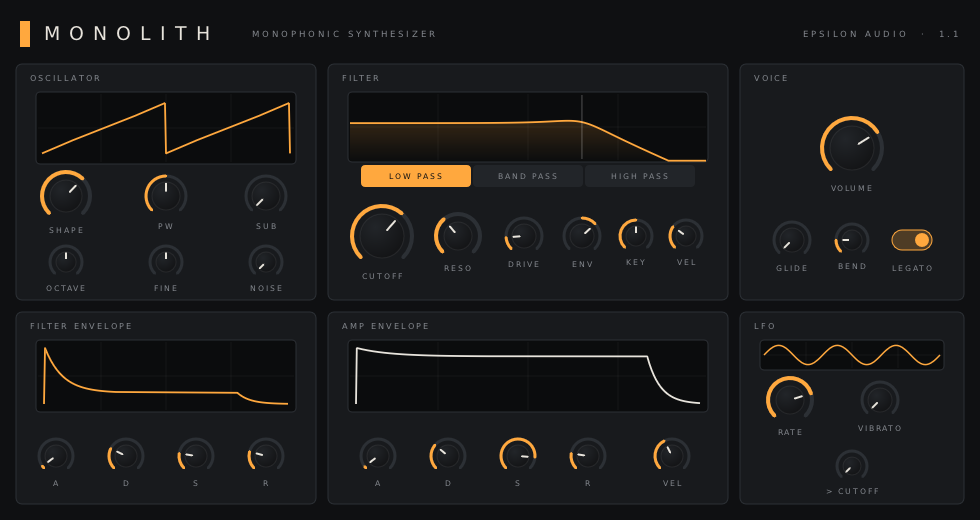
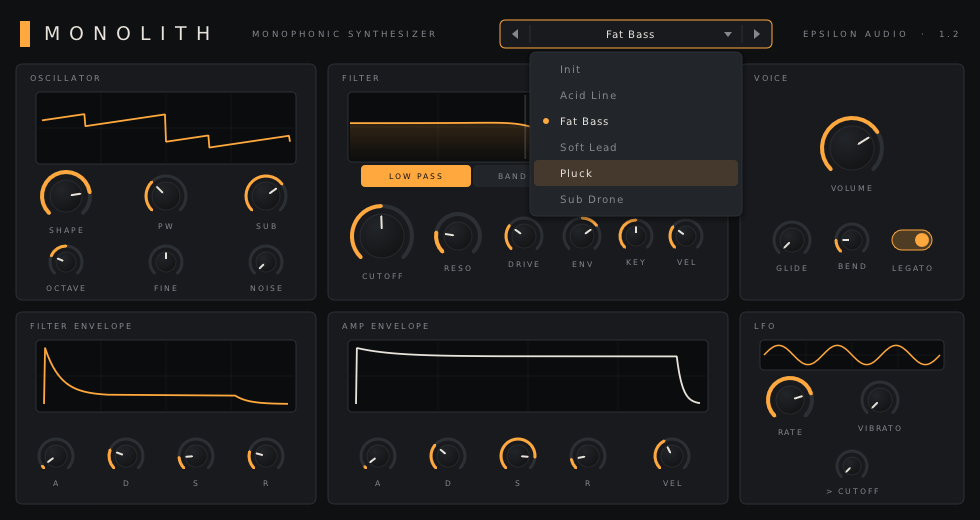
Monolith 1.2: preset selector in the plugin header
Adds prev/next arrows, a dropdown list, mouse-wheel stepping and a
modified marker. Presets move to a shared Presets.hpp so the UI and the
host program list use the same data; selecting a preset sends ordinary
parameter changes, so it works in CLAP hosts and is undoable.

Claude-Session: https://claude.ai/code/session_01SqN8qLbib611dsRsgrzuFU

diff --git a/plugins/Monolith/MonolithUI.cpp b/plugins/Monolith/MonolithUI.cpp
@@ -1,6 +1,7 @@
 // Monolith — custom vector UI (DPF/NanoVG). Original design. License: ISC.
 #include "DistrhoUI.hpp"
 #include "ParamDefs.hpp"
+#include "Presets.hpp"
 #include <cmath>
 #include <cstdio>
 #include <vector>
@@ -76,6 +77,10 @@ static const Ctl kCtls[] = {
     { Knob, kLfoCutoff, 852, 466, 15, "> CUTOFF" },
 };
 static constexpr int kNumCtls = sizeof(kCtls) / sizeof(kCtls[0]);
+
+// header preset selector:  [◀][ name ▾ ][▶]
+static constexpr float PS_X = 500.f, PS_Y = 20.f, PS_W = 272.f, PS_H = 28.f, PS_ARROW = 30.f;
+static constexpr float PS_ROW = 26.f;
 
 static bool isTime(uint32_t p) {
     return p == kGlide || (p >= kFltAttack && p <= kAmpRelease && p != kFltSustain && p != kAmpSustain);
@@ -156,7 +161,7 @@ protected:
         textAlign(ALIGN_LEFT | ALIGN_MIDDLE); text(44, 34, "MONOLITH", nullptr);
         fontSize(10); textLetterSpacing(2.5f); fillColor(C_DIM);
         text(252, 35, "MONOPHONIC SYNTHESIZER", nullptr);
-        textAlign(ALIGN_RIGHT | ALIGN_MIDDLE); text(W - 22, 35, "EPSILON AUDIO  ·  1.1", nullptr);
+        textAlign(ALIGN_RIGHT | ALIGN_MIDDLE); text(W - 22, 35, "EPSILON AUDIO  ·  1.2", nullptr);
         // accent bar: a single slab
         beginPath(); rect(20, 21, 10, 26); fillColor(C_ACCENT); fill();
 
@@ -169,6 +174,8 @@ protected:
         drawLfo(760, 340, 184, 30);
 
         for (int i = 0; i < kNumCtls; ++i) drawCtl(kCtls[i], i == active || i == hover);
+        drawPresetBar();
+        if (menuOpen) drawPresetMenu();
         restore();
     }
 
@@ -339,6 +346,103 @@ protected:
         }
     }
 
+    // ---- presets ------------------------------------------------------------
+    bool matches(uint32_t idx) const {
+        const float* v = presets()[idx].v;
+        for (uint32_t i = 0; i < kParamCount; ++i) {
+            const float tol = 1e-4f * std::max(1.f, std::fabs(v[i]));
+            if (std::fabs(val[i] - v[i]) > tol) return false;
+        }
+        return true;
+    }
+    int exactMatch() const {
+        for (uint32_t i = 0; i < kNumPresets; ++i) if (matches(i)) return (int)i;
+        return -1;
+    }
+    void applyPreset(int idx) {
+        idx = (idx % (int)kNumPresets + (int)kNumPresets) % (int)kNumPresets;
+        const float* v = presets()[idx].v;
+        for (uint32_t i = 0; i < kParamCount; ++i) {
+            if (val[i] == v[i]) continue;
+            editParameter(i, true); setValue(i, v[i]); editParameter(i, false);
+        }
+        curPreset = idx; repaint();
+    }
+    void programLoaded(uint32_t index) override { curPreset = (int)index; repaint(); }
+
+    void drawPresetBar() {
+        const float x = PS_X, y = PS_Y, w = PS_W, h = PS_H, a = PS_ARROW;
+        // frame
+        beginPath(); roundedRect(x, y, w, h, 5); fillColor(C_PANEL); fill();
+        strokeColor(menuOpen ? C_ACCENT : C_LINE); strokeWidth(1); stroke();
+        // dividers
+        beginPath(); moveTo(x + a, y + 5); lineTo(x + a, y + h - 5);
+        moveTo(x + w - a, y + 5); lineTo(x + w - a, y + h - 5);
+        strokeColor(C_LINE); stroke();
+        // arrows
+        for (int side = 0; side < 2; ++side) {
+            const bool hot = presetHover == (side == 0 ? 0 : 2);
+            const float cx = side == 0 ? x + a / 2 : x + w - a / 2, cy = y + h / 2, d = side == 0 ? -1.f : 1.f;
+            beginPath(); moveTo(cx - 3 * d, cy - 5); lineTo(cx + 3 * d, cy); lineTo(cx - 3 * d, cy + 5); closePath();
+            fillColor(hot ? C_ACCENT : C_DIM); fill();
+        }
+        // name
+        char buf[48];
+        int shown = curPreset;
+        bool modified = false;
+        if (shown < 0 || !matches((uint32_t)shown)) {
+            const int m = exactMatch();
+            if (m >= 0) { shown = m; }
+            else modified = true;
+        }
+        if (shown < 0) snprintf(buf, sizeof buf, "Custom");
+        else snprintf(buf, sizeof buf, modified ? "%s *" : "%s", presets()[shown].name);
+        fontSize(12); textLetterSpacing(1.2f); textAlign(ALIGN_CENTER | ALIGN_MIDDLE);
+        fillColor(presetHover == 1 || menuOpen ? C_TEXT : Color(0xd0, 0xcc, 0xc4));
+        text(x + w / 2 - 6, y + h / 2 + 0.5f, buf, nullptr);
+        // caret
+        const float cx = x + w - a - 14, cy = y + h / 2;
+        beginPath(); moveTo(cx - 4, cy - 2); lineTo(cx + 4, cy - 2); lineTo(cx, cy + 3); closePath();
+        fillColor(C_DIM); fill();
+    }
+
+    void drawPresetMenu() {
+        const float x = PS_X + PS_ARROW, w = PS_W - 2 * PS_ARROW, y = PS_Y + PS_H + 4;
+        const float h = PS_ROW * kNumPresets + 8;
+        // shadow + body
+        beginPath(); rect(x - 10, y - 4, w + 20, h + 18);
+        fillPaint(boxGradient(x, y + 2, w, h, 6, 12, Color(0, 0, 0, 0.6f), Color(0, 0, 0, 0.f))); fill();
+        beginPath(); roundedRect(x, y, w, h, 6); fillColor(C_PANEL_HI); fill();
+        strokeColor(C_LINE); strokeWidth(1); stroke();
+        const int cur = curPreset >= 0 ? curPreset : exactMatch();
+        for (uint32_t i = 0; i < kNumPresets; ++i) {
+            const float ry = y + 4 + PS_ROW * i;
+            if ((int)i == menuHover) {
+                beginPath(); roundedRect(x + 4, ry, w - 8, PS_ROW, 4); fillColor(C_ACCENT_A(40)); fill();
+            }
+            if ((int)i == cur) {
+                beginPath(); circle(x + 16, ry + PS_ROW / 2, 3); fillColor(C_ACCENT); fill();
+            }
+            fontSize(12); textLetterSpacing(1.f); textAlign(ALIGN_LEFT | ALIGN_MIDDLE);
+            fillColor((int)i == menuHover || (int)i == cur ? C_TEXT : C_DIM);
+            text(x + 30, ry + PS_ROW / 2 + 0.5f, presets()[i].name, nullptr);
+        }
+    }
+
+    // -1 none, 0 prev arrow, 1 name, 2 next arrow
+    int presetBarHit(float x, float y) const {
+        if (y < PS_Y || y > PS_Y + PS_H || x < PS_X || x > PS_X + PS_W) return -1;
+        if (x < PS_X + PS_ARROW) return 0;
+        if (x > PS_X + PS_W - PS_ARROW) return 2;
+        return 1;
+    }
+    int menuHit(float x, float y) const {
+        const float mx = PS_X + PS_ARROW, mw = PS_W - 2 * PS_ARROW, my = PS_Y + PS_H + 8;
+        if (x < mx || x > mx + mw || y < my || y >= my + PS_ROW * kNumPresets) return -1;
+        return (int)((y - my) / PS_ROW);
+    }
+    int stepBase() const { return curPreset >= 0 ? curPreset : std::max(0, exactMatch()); }
+
     // ---- interaction ------------------------------------------------------
     int hit(float x, float y, int* seg = nullptr) const {
         for (int i = 0; i < kNumCtls; ++i) {
@@ -358,6 +462,19 @@ protected:
     bool onMouse(const MouseEvent& ev) override {
         const float x = ev.pos.getX() / uiScale, y = ev.pos.getY() / uiScale;
         if (ev.button != 1) return false;
+        if (ev.press && menuOpen) {
+            const int m = menuHit(x, y);
+            menuOpen = false; menuHover = -1;
+            if (m >= 0) applyPreset(m);
+            repaint();
+            return true;               // a click anywhere closes the menu
+        }
+        if (ev.press) {
+            const int pb = presetBarHit(x, y);
+            if (pb == 0) { applyPreset(stepBase() - 1); return true; }
+            if (pb == 2) { applyPreset(stepBase() + 1); return true; }
+            if (pb == 1) { menuOpen = true; menuHover = -1; repaint(); return true; }
+        }
         if (ev.press) {
             int seg = 0; const int i = hit(x, y, &seg);
             if (i < 0) return false;
@@ -389,13 +506,23 @@ protected:
             setValue(c.param, fromNorm(c.param, dragNorm));
             return true;
         }
-        const int h = hit(x, y);
+        if (menuOpen) {
+            const int m = menuHit(x, y);
+            if (m != menuHover) { menuHover = m; repaint(); }
+            return true;
+        }
+        const int pb = presetBarHit(x, y);
+        if (pb != presetHover) { presetHover = pb; repaint(); }
+        const int h = pb >= 0 ? -1 : hit(x, y);
         if (h != hover) { hover = h; repaint(); }
         return false;
     }
 
     bool onScroll(const ScrollEvent& ev) override {
-        const int i = hit(ev.pos.getX() / uiScale, ev.pos.getY() / uiScale);
+        const float sx = ev.pos.getX() / uiScale, sy = ev.pos.getY() / uiScale;
+        if (menuOpen) return true;
+        if (presetBarHit(sx, sy) >= 0) { applyPreset(stepBase() + (ev.delta.getY() > 0 ? -1 : 1)); return true; }
+        const int i = hit(sx, sy);
         if (i < 0 || kCtls[i].type != Knob) return false;
         const uint32_t p = kCtls[i].param;
         float step = (ev.mod & kModifierShift) ? 0.004f : 0.025f;
@@ -410,6 +537,8 @@ private:
     float val[kParamCount], defv[kParamCount];
     float uiScale = 1.f;
     int active = -1, hover = -1, lastClick = -1;
+    int curPreset = 0, presetHover = -1, menuHover = -1;
+    bool menuOpen = false;
     uint lastClickTime = 0;
     float dragY = 0, dragNorm = 0;
 

diff --git a/plugins/Monolith/MonolithPlugin.cpp b/plugins/Monolith/MonolithPlugin.cpp
@@ -1,53 +1,15 @@
 // Monolith — DPF plugin wrapper. License: ISC.
 #include "DistrhoPlugin.hpp"
 #include "ParamDefs.hpp"
+#include "Presets.hpp"
 
 START_NAMESPACE_DISTRHO
 
 using namespace mono;
 
-// Factory presets: {paramIndex, value} overrides on top of defaults.
-struct Preset { const char* name; float v[kParamCount]; };
-static Preset kPresets[] = {
-    {"Init",        {}},
-    {"Acid Line",   {}},
-    {"Fat Bass",    {}},
-    {"Soft Lead",   {}},
-    {"Pluck",       {}},
-    {"Sub Drone",   {}},
-};
-static constexpr uint32_t kNumPresets = sizeof(kPresets) / sizeof(kPresets[0]);
-
-static void buildPresets() {
-    static bool done = false; if (done) return; done = true;
-    Engine e;
-    for (auto& pr : kPresets) std::copy(e.p, e.p + kParamCount, pr.v);
-    auto& acid = kPresets[1].v;
-    acid[kShape] = 0.66f; acid[kGlide] = 0.08f; acid[kLegato] = 1; acid[kCutoff] = 320.f;
-    acid[kResonance] = 0.82f; acid[kDrive] = 0.45f; acid[kFltEnvAmt] = 0.6f; acid[kFltDecay] = 0.22f;
-    acid[kFltSustain] = 0.f; acid[kOctave] = -1; acid[kAmpSustain] = 1.f; acid[kAmpRelease] = 0.05f;
-    auto& bass = kPresets[2].v;
-    bass[kShape] = 0.8f; bass[kPulseWidth] = 0.35f; bass[kSubLevel] = 0.7f; bass[kOctave] = -1;
-    bass[kCutoff] = 600.f; bass[kResonance] = 0.2f; bass[kDrive] = 0.3f; bass[kFltEnvAmt] = 0.4f;
-    bass[kFltDecay] = 0.3f; bass[kFltSustain] = 0.15f; bass[kAmpRelease] = 0.08f;
-    auto& lead = kPresets[3].v;
-    lead[kShape] = 0.5f; lead[kGlide] = 0.12f; lead[kLegato] = 1; lead[kCutoff] = 2500.f;
-    lead[kResonance] = 0.3f; lead[kFltEnvAmt] = 0.2f; lead[kAmpAttack] = 0.03f; lead[kAmpRelease] = 0.4f;
-    lead[kLfoRate] = 5.5f; lead[kLfoPitch] = 0.12f;
-    auto& pluck = kPresets[4].v;
-    pluck[kShape] = 1.f; pluck[kPulseWidth] = 0.2f; pluck[kCutoff] = 250.f; pluck[kResonance] = 0.5f;
-    pluck[kFltEnvAmt] = 0.75f; pluck[kFltDecay] = 0.15f; pluck[kFltSustain] = 0.f; pluck[kFltVelAmt] = 0.6f;
-    pluck[kAmpDecay] = 0.4f; pluck[kAmpSustain] = 0.f; pluck[kAmpRelease] = 0.3f;
-    auto& drone = kPresets[5].v;
-    drone[kShape] = 0.f; drone[kSubLevel] = 1.f; drone[kOctave] = -1; drone[kNoiseLevel] = 0.04f;
-    drone[kCutoff] = 900.f; drone[kResonance] = 0.6f; drone[kFltEnvAmt] = 0.f; drone[kAmpAttack] = 1.2f;
-    drone[kAmpRelease] = 2.5f; drone[kLfoRate] = 0.2f; drone[kLfoCutoff] = 0.5f;
-}
-
 class MonolithPlugin : public Plugin {
 public:
     MonolithPlugin() : Plugin(kParamCount, kNumPresets, 0) {
-        buildPresets();
         engine.setSampleRate((float)getSampleRate());
     }
 
@@ -60,7 +22,7 @@ protected:
     const char* getMaker() const override { return "Epsilon Audio"; }
     const char* getHomePage() const override { return "https://epsilonrecords.com"; }
     const char* getLicense() const override { return "ISC"; }
-    uint32_t getVersion() const override { return d_version(1, 1, 0); }
+    uint32_t getVersion() const override { return d_version(1, 2, 0); }
 
     void initParameter(uint32_t i, Parameter& prm) override {
         const ParamDef& d = kDefs[i];
@@ -80,8 +42,8 @@ protected:
         }
     }
 
-    void initProgramName(uint32_t i, String& name) override { name = kPresets[i].name; }
-    void loadProgram(uint32_t i) override { std::copy(kPresets[i].v, kPresets[i].v + kParamCount, engine.p); }
+    void initProgramName(uint32_t i, String& name) override { name = presets()[i].name; }
+    void loadProgram(uint32_t i) override { std::copy(presets()[i].v, presets()[i].v + kParamCount, engine.p); }
 
     float getParameterValue(uint32_t i) const override { return engine.p[i]; }
     void setParameterValue(uint32_t i, float v) override { engine.p[i] = v; }

diff --git a/plugins/Monolith/Presets.hpp b/plugins/Monolith/Presets.hpp
@@ -1,0 +1,44 @@
+// Factory presets, shared by the DSP (host program list) and the UI selector. License: ISC.
+#pragma once
+#include "MonoEngine.hpp"
+#include <algorithm>
+
+namespace mono {
+
+struct Preset { const char* name; float v[kParamCount]; };
+static constexpr uint32_t kNumPresets = 6;
+
+inline const Preset* presets() {
+    static Preset kPresets[kNumPresets] = {
+        {"Init", {}}, {"Acid Line", {}}, {"Fat Bass", {}},
+        {"Soft Lead", {}}, {"Pluck", {}}, {"Sub Drone", {}},
+    };
+    static bool done = false;
+    if (done) return kPresets;
+    done = true;
+    Engine e;
+    for (auto& pr : kPresets) std::copy(e.p, e.p + kParamCount, pr.v);
+    auto& acid = kPresets[1].v;
+    acid[kShape] = 0.66f; acid[kGlide] = 0.08f; acid[kLegato] = 1; acid[kCutoff] = 320.f;
+    acid[kResonance] = 0.82f; acid[kDrive] = 0.45f; acid[kFltEnvAmt] = 0.6f; acid[kFltDecay] = 0.22f;
+    acid[kFltSustain] = 0.f; acid[kOctave] = -1; acid[kAmpSustain] = 1.f; acid[kAmpRelease] = 0.05f;
+    auto& bass = kPresets[2].v;
+    bass[kShape] = 0.8f; bass[kPulseWidth] = 0.35f; bass[kSubLevel] = 0.7f; bass[kOctave] = -1;
+    bass[kCutoff] = 600.f; bass[kResonance] = 0.2f; bass[kDrive] = 0.3f; bass[kFltEnvAmt] = 0.4f;
+    bass[kFltDecay] = 0.3f; bass[kFltSustain] = 0.15f; bass[kAmpRelease] = 0.08f;
+    auto& lead = kPresets[3].v;
+    lead[kShape] = 0.5f; lead[kGlide] = 0.12f; lead[kLegato] = 1; lead[kCutoff] = 2500.f;
+    lead[kResonance] = 0.3f; lead[kFltEnvAmt] = 0.2f; lead[kAmpAttack] = 0.03f; lead[kAmpRelease] = 0.4f;
+    lead[kLfoRate] = 5.5f; lead[kLfoPitch] = 0.12f;
+    auto& pluck = kPresets[4].v;
+    pluck[kShape] = 1.f; pluck[kPulseWidth] = 0.2f; pluck[kCutoff] = 250.f; pluck[kResonance] = 0.5f;
+    pluck[kFltEnvAmt] = 0.75f; pluck[kFltDecay] = 0.15f; pluck[kFltSustain] = 0.f; pluck[kFltVelAmt] = 0.6f;
+    pluck[kAmpDecay] = 0.4f; pluck[kAmpSustain] = 0.f; pluck[kAmpRelease] = 0.3f;
+    auto& drone = kPresets[5].v;
+    drone[kShape] = 0.f; drone[kSubLevel] = 1.f; drone[kOctave] = -1; drone[kNoiseLevel] = 0.04f;
+    drone[kCutoff] = 900.f; drone[kResonance] = 0.6f; drone[kFltEnvAmt] = 0.f; drone[kAmpAttack] = 1.2f;
+    drone[kAmpRelease] = 2.5f; drone[kLfoRate] = 0.2f; drone[kLfoCutoff] = 0.5f;
+    return kPresets;
+}
+
+} // namespace mono

diff --git a/README.md b/README.md
@@ -1,4 +1,4 @@
-# Monolith 1.1 — monophonic synthesizer (VST3 / VST2 / CLAP)
+# Monolith 1.2 — monophonic synthesizer (VST3 / VST2 / CLAP)
 
 Original mono synth with the same class of feature set as FabFilter's first product, FabFilter One (2002). It is a **clean-room implementation**. No FabFilter code, binaries, assets, presets, UI artwork or product name were used or referenced. The DSP is built entirely from published, textbook techniques:
 
@@ -27,7 +27,7 @@ Pitch: glide, octave, fine tune, pitch bend, LFO vibrato, mod wheel (CC1 → vib
 | LFO | Rate (0.05–20 Hz), Vibrato, LFO > Cutoff |
 | Output | Volume (−36…+6 dB), with a built-in soft limiter that caps output at 0 dBFS |
 
-**Factory presets:** Init, Acid Line, Fat Bass, Soft Lead, Pluck, Sub Drone.
+**Factory presets:** Init, Acid Line, Fat Bass, Soft Lead, Pluck, Sub Drone. Choose them from the selector in the plugin header, which works the same in every format and DAW (see below).
 
 **MIDI:** note on/off, velocity, pitch bend, CC1 (mod wheel → vibrato), CC120/123 (all notes off).
 
@@ -43,7 +43,7 @@ Pitch: glide, octave, fine tune, pitch bend, LFO vibrato, mod wheel (CC1 → vib
 
 VST2 (`Monolith-vst.dll` / `.so`) is also included for older hosts.
 
-## Interface (new in 1.1)
+## Interface
 
 ![Monolith UI](screenshot.png)
 
@@ -60,8 +60,13 @@ The interface is an original vector design that scales on HiDPI screens. It has:
 | Mouse wheel | Step the value |
 | Double-click | Reset to default |
 | Hover | Show the current value |
+| ◀ / ▶ in the header | Previous / next preset |
+| Click the preset name | Open the preset list |
+| Mouse wheel over the preset name | Step through presets |
 
 Time knobs use a square-law curve, so short envelope times get more of the knob's travel.
+
+A `*` after the preset name means you've changed a setting since loading it. Preset changes are sent to the host as ordinary parameter changes, so they can be undone and recorded as automation. They also work in CLAP hosts, which don't show the plugin's program list.
 
 **Windows note:** the binaries are unsigned. They are statically linked, so no runtime install is needed.
 
@@ -69,7 +74,7 @@ Time knobs use a square-law curve, so short envelope times get more of the knob'
 
 The macOS binaries are built by GitHub Actions (`.github/workflows/build.yml`) on a `macos-14` runner. The build is universal (Apple Silicon + Intel) and produces VST3, AU and CLAP. The bundles are ad-hoc signed.
 
-To get them, push this folder to a GitHub repo. Download the `Monolith-macos-universal` artifact from the Actions run, or push a `v1.1` tag to get a GitHub Release with all three platforms.
+To get them, push this folder to a GitHub repo. Download the `Monolith-macos-universal` artifact from the Actions run, or push a version tag (e.g. `v1.2`) to get a GitHub Release with all three platforms.
 
 Without notarization, macOS may quarantine the downloaded plugin. Clear the flag with:
 
@@ -100,6 +105,7 @@ make WINDOWS=true CC=x86_64-w64-mingw32-gcc CXX=x86_64-w64-mingw32-g++   # Windo
 - `plugins/Monolith/MonoEngine.hpp`: all of the DSP, header-only, with no framework dependency
 - `plugins/Monolith/MonolithPlugin.cpp`: plugin wrapper and presets
 - `plugins/Monolith/ParamDefs.hpp`: parameter table shared by the DSP and the UI
+- `plugins/Monolith/Presets.hpp`: factory presets shared by the DSP and the UI
 - `plugins/Monolith/MonolithUI.cpp`: custom interface (NanoVG)
 
 License: ISC.
